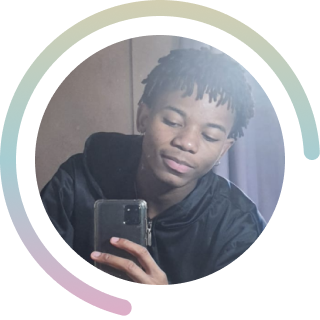
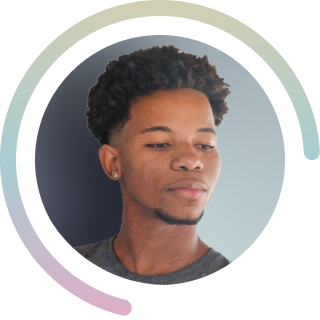
Alterando imagem e nome na landing page

diff --git a/public/teste.php b/public/teste.php
@@ -1,0 +1,37 @@
+<?php
+    include_once("../app/services/helpers/authUser.php");
+    include_once("../app/services/helpers/conn.php");
+    include_once("../app/services/helpers/paths.php");
+    
+    validateRememberedCookie($conn, "home.php");
+
+    if(isset($_POST['logar'])) {
+        logIn($conn);
+        if(empty($return['email'])){
+            $loginErrorMsg = "Usuário ou senha não encontrados!";
+        }
+    }
+?>
+<!DOCTYPE html>
+<html lang="pt-br">
+    <head>
+        <meta charset="UTF-8">
+        <meta name="viewport" content="width=device-width, initial-scale=1.0">
+        <link rel="stylesheet" href="https://cdn.jsdelivr.net/npm/bootstrap-icons@1.11.3/font/bootstrap-icons.min.css">
+        <link rel="stylesheet" href="../app/assets/styles/style.css">
+        <link rel="icon" href="../app/assets/imagens/logos/final/Conecta_Mães_Logo_Icon.png">
+        <title>ConectaMães - Login</title>
+    </head>
+
+    <body class="Y-theme">
+        <?php 
+            include_once("../app/includes/headerLanding.php");
+        ?>
+        <p>Teste</p>
+        <?php 
+            include_once("../app/includes/footer.php");
+        ?>
+        
+        <script src="../app/assets/js/system.js"></script>
+    </body>
+</html>

diff --git a/app/assets/styles/teste.py b/app/assets/styles/teste.py
@@ -1,0 +1,29 @@
+#Criação de um socket:
+import socket
+s = socket.socket(socket.AF_INET, socket.SOCK_STREAM)
+
+#Conexão ao servidor:
+s.connect(("servidor.com", 80))
+
+#Envio e recebimento de dados:
+s.sendall(b"GET / HTTP/1.1\r\nHost: servidor.com\r\n\r\n")
+resposta = s.recv(1024)
+print(resposta)
+
+#Fechamento do socket:
+s.close()
+
+
+#Criação de um socket:
+import socket
+s = socket.socket(socket.AF_INET, socket.SOCK_DGRAM)
+
+#Conexão ao servidor:
+s.sendto(b"Mensagem", ("servidor.com", 12345))
+
+#Envio e recebimento de dados:
+data, addr = s.recvfrom(1024)
+print(f"Recebido de {addr}: {data}")
+
+#Fechamento do socket:
+s.close()

diff --git a/index.php b/index.php
@@ -272,7 +272,7 @@
                             </div>
 
                             <div class="La-memberInformation">
-                                <p class="La-memberName"> Nathália</p>
+                                <p class="La-memberName"> Wagner</p>
                                 <p class="La-memberFamilyName"> Lessa</p>
                                 <p class="La-memberFunction"> Desenvolvedora </p>
                             </div>
